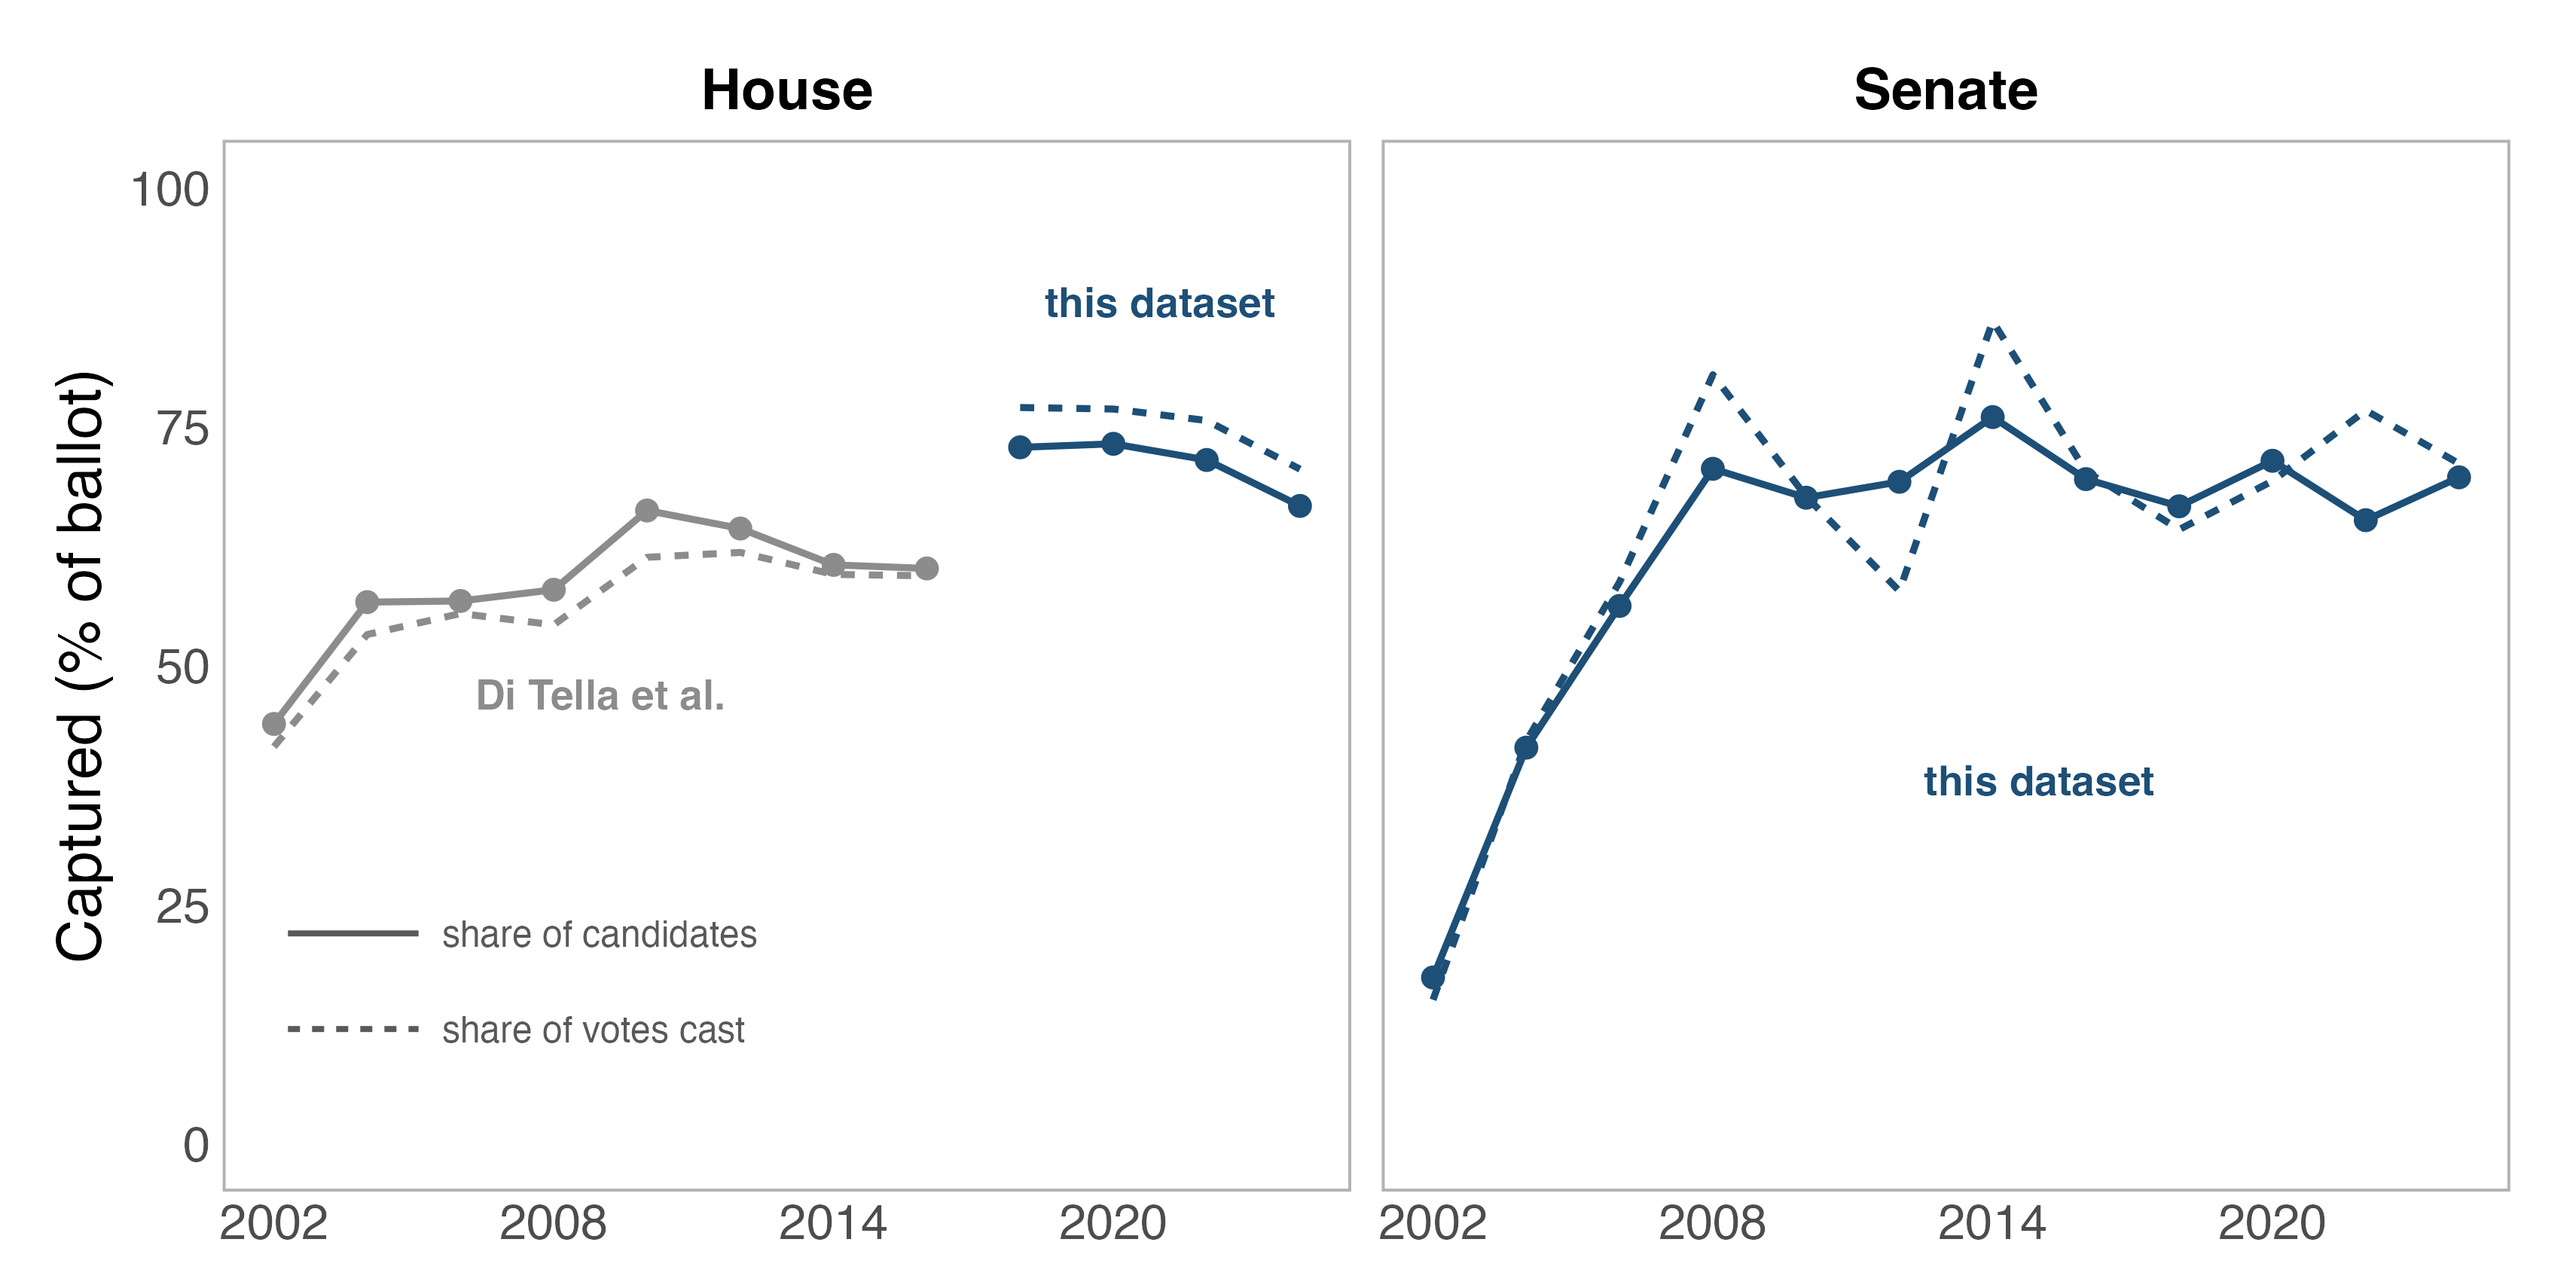
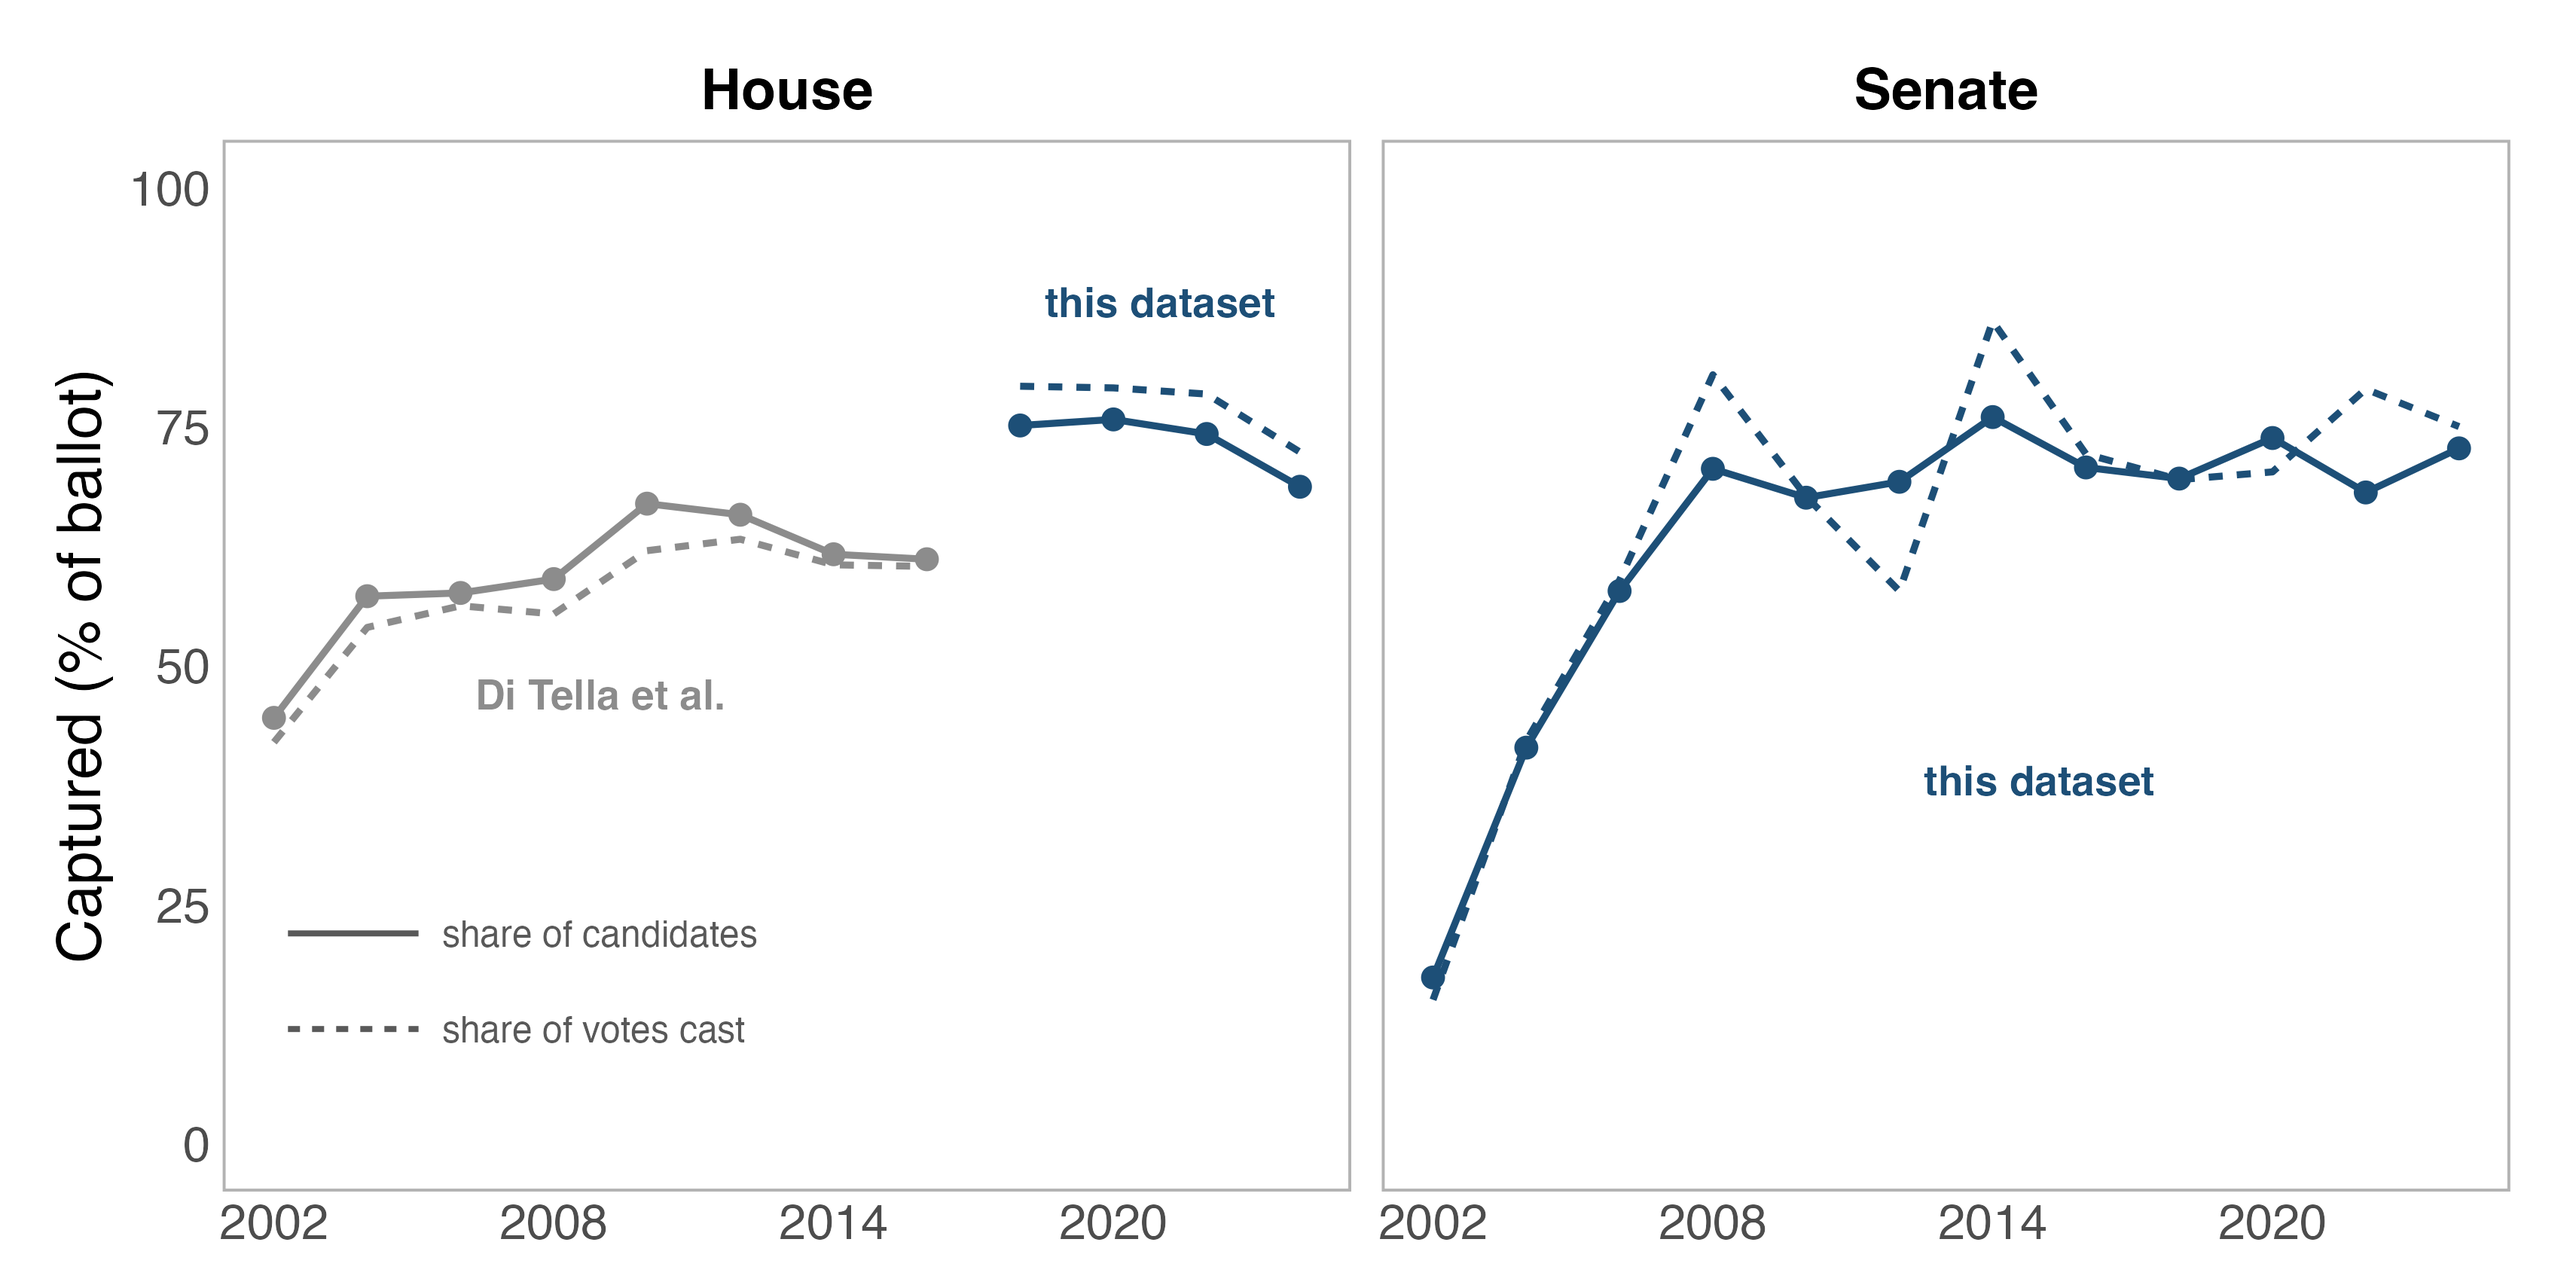
Fix multi-word surnames in the ballot match; publish the diagnostics
A reviewer argued that on_ballot is load-bearing but matched by name with no
reported diagnostics, and that name matching fails systematically on nicknames,
suffixes and married names. Checking that claim found a real defect.

The ballot writes "ALEXANDRIA OCASIO-CORTEZ"; the roster writes "Ocasio-Cortez,
Alexandria". The matcher took only the final token as the surname on the ballot
side, so every multi-word surname failed. 91 candidates were wrongly recorded as
not on the ballot, including Ocasio-Cortez, Wasserman Schultz, McMorris Rodgers
and Diaz-Balart. My earlier spot check missed it because the unmatched rows I
sampled were alphabetically early and genuinely were primary losers.

The match now tries the last one, two and three tokens as the surname and
accepts any that lands. on_ballot goes 2,946 -> 3,037 and every coverage figure
moves up one to two points (House 2018 72.8 -> 75.1%).

Sensitivity is now estimated rather than asserted: scoring all 6,907 unmatched
rows against the names in their own race with rapidfuzz leaves 13 close pairs at
90+ similarity, all married-name variants or reversed FEC name fields. So the
match finds about 99% of ballot candidates.

Other review items:

  - the topic comparison was unfair and is mine. It set our pooled MAXIMUM
    (0.268) against a mean. Now states max and mean (0.097) side by side.
  - "pipeline code available from the author on request" was wrong; the repo is
    public. Replaced with the URL.
[…]

diff --git a/scripts/coverage_vs_returns.py b/scripts/coverage_vs_returns.py
@@ -75,13 +75,42 @@ def name_parts(raw: str, comma_form: bool) -> tuple[str, str]:
     return ("".join(lt), (ft[0] if ft else ""))
 
 
+def last_variants(raw: str) -> list[tuple[str, str]]:
+    """Plausible (last, first) splits for a "First Middle Last" ballot name.
+
+    The ballot writes "DEBBIE WASSERMAN SCHULTZ" and "ALEXANDRIA OCASIO-CORTEZ";
+    the collections write "Wasserman Schultz, Debbie". Taking only the final
+    token as the surname silently drops every multi-word surname, so try the
+    last one, two and three tokens and let the caller accept any of them.
+    """
+    s = re.sub(r'"[^"]*"', " ", str(raw))
+    s = re.sub(r"[^A-Za-z ]", " ", s).lower()
+    toks = [w for w in s.split() if w not in SUFFIX]
+    if not toks:
+        return [("", "")]
+    out = []
+    for k in (1, 2, 3):
+        if len(toks) > k:
+            out.append(("".join(toks[-k:]), toks[0]))
+    if not out:                                   # single-token name
+        out.append(("".join(toks), ""))
+    return out
+
+
 def keys(df: pd.DataFrame, name: str, comma: bool) -> pd.DataFrame:
-    """Add last/first/initial columns used for the ballot match."""
+    """Add last/first/initial columns used for the ballot match.
+
+    Collection rows (comma form) get one surname. Ballot rows also get
+    `lasts`, every plausible surname split, because their name format hides
+    where the surname begins.
+    """
     parts = [name_parts(v, comma) for v in df[name]]
     df = df.copy()
     df["last"] = [p[0] for p in parts]
     df["first"] = [p[1] for p in parts]
     df["fi"] = df["first"].str[:1]
+    if not comma:
+        df["lasts"] = [last_variants(v) for v in df[name]]
     return df
 
 
@@ -146,27 +175,42 @@ def match(b: pd.DataFrame, c: pd.DataFrame) -> pd.Series:
     disagrees. Requiring uniqueness on both sides keeps it from merging two
     different people who happen to share a surname in one district.
     """
-    race = ["year", "office", "state_po", "district", "last"]
-    bk = list(map(tuple, b[race].astype(str).values))
-    ck = list(map(tuple, c[race].astype(str).values))
+    return pd.Series(_hits(b, c), index=b.index)
 
+
+def _compatible(g: str, f: str) -> bool:
+    """Two first names that plausibly belong to the same person."""
+    return (g == f or (bool(g) and bool(f)
+                       and (g.startswith(f) or f.startswith(g)))
+            or (bool(g[:1]) and g[:1] == f[:1]))
+
+
+def _hits(b: pd.DataFrame, c: pd.DataFrame) -> list[bool]:
+    rc = ["year", "office", "state_po", "district"]
     by_race: dict[tuple, list[str]] = {}
-    for k, f in zip(ck, c["first"]):
-        by_race.setdefault(k, []).append(f)
+    for k, last, f in zip(map(tuple, c[rc].astype(str).values), c["last"],
+                          c["first"]):
+        by_race.setdefault(k + (last,), []).append(f)
     b_count: dict[tuple, int] = {}
-    for k in bk:
-        b_count[k] = b_count.get(k, 0) + 1
+    for k, variants in zip(map(tuple, b[rc].astype(str).values), b["lasts"]):
+        for last, _ in variants:
+            b_count[k + (last,)] = b_count.get(k + (last,), 0) + 1
 
-    def ok(k: tuple, f: str) -> bool:
-        firsts = by_race.get(k)
-        if not firsts:
-            return False
-        if len(set(firsts)) == 1 and b_count.get(k, 0) == 1:
-            return True                      # one of each: surname is enough
-        return any(g == f or (g and f and (g.startswith(f) or f.startswith(g)))
-                   or (g[:1] and g[:1] == f[:1]) for g in firsts)
-
-    return pd.Series([ok(k, f) for k, f in zip(bk, b["first"])], index=b.index)
+    out = []
+    for k, variants in zip(map(tuple, b[rc].astype(str).values), b["lasts"]):
+        got = False
+        for last, first in variants:
+            firsts = by_race.get(k + (last,))
+            if not firsts:
+                continue
+            if len(set(firsts)) == 1 and b_count.get(k + (last,), 0) == 1:
+                got = True
+                break
+            if any(_compatible(g, first) for g in firsts):
+                got = True
+                break
+        out.append(got)
+    return out
 
 
 def reverse_match(c: pd.DataFrame, b: pd.DataFrame) -> pd.DataFrame:
@@ -175,13 +219,14 @@ def reverse_match(c: pd.DataFrame, b: pd.DataFrame) -> pd.DataFrame:
     Returns on_ballot and general_votes. Same compatibility rule as match(),
     read the other way.
     """
-    race = ["year", "office", "state_po", "district", "last"]
-    bk = list(map(tuple, b[race].astype(str).values))
-    ck = list(map(tuple, c[race].astype(str).values))
-
+    rc = ["year", "office", "state_po", "district"]
     by_race: dict[tuple, list[tuple[str, int]]] = {}
-    for k, f, v in zip(bk, b["first"], b["candidatevotes"]):
-        by_race.setdefault(k, []).append((f, int(v)))
+    for k, variants, v in zip(map(tuple, b[rc].astype(str).values), b["lasts"],
+                              b["candidatevotes"]):
+        for last, first in variants:
+            by_race.setdefault(k + (last,), []).append((first, int(v)))
+    ck = [tuple(x) + (l,) for x, l
+          in zip(c[rc].astype(str).values, c["last"])]
     c_count: dict[tuple, int] = {}
     for k in ck:
         c_count[k] = c_count.get(k, 0) + 1
@@ -192,12 +237,10 @@ def reverse_match(c: pd.DataFrame, b: pd.DataFrame) -> pd.DataFrame:
         if not cands:
             hit.append(False), votes.append(pd.NA)
             continue
-        if len(cands) == 1 and c_count.get(k, 0) == 1:
+        if len({x[1] for x in cands}) == 1 and c_count.get(k, 0) == 1:
             hit.append(True), votes.append(cands[0][1])
             continue
-        ok = [v for g, v in cands
-              if g == f or (g and f and (g.startswith(f) or f.startswith(g)))
-              or (g[:1] and g[:1] == f[:1])]
+        ok = [v for g, v in cands if _compatible(g, f)]
         hit.append(bool(ok))
         votes.append(max(ok) if ok else pd.NA)
     return pd.DataFrame({"on_ballot": hit, "general_votes": votes},
@@ -293,14 +336,13 @@ def main() -> int:
             print(f"  {x.office:<6} {x.year}  {x.n_matched:>4}/{x.n_ballot:<4} "
                   f"= {x.pct_cand:5.1f}%   votes {x.pct_votes:5.1f}%")
 
-    # How many collection rows never found a ballot row? A high number means the
-    # matcher is failing, not that the candidates were absent from the ballot.
-    for lbl, c, col in (("ICPSR", t, "in_icpsr"), ("ours", o, "in_ours")):
-        key = ["year", "office", "state_po", "district", "last", "fi"]
-        onb = set(map(tuple, b[key].astype(str).values))
-        miss = sum(tuple(v) not in onb for v in c[key].astype(str).values)
-        print(f"\n{lbl}: {miss:,}/{len(c):,} ({100*miss/len(c):.1f}%) rows found "
-              f"no ballot row")
+    # How many collection rows are not on the ballot? Read from the same
+    # matcher, not a stricter key, or the number is an artifact of the key.
+    for lbl, c in (("ICPSR", t), ("ours", o)):
+        rev = reverse_match(c, b)
+        miss = int((~rev.on_ballot).sum())
+        print(f"\n{lbl}: {miss:,}/{len(c):,} ({100*miss/len(c):.1f}%) not on a "
+              f"general-election ballot")
     print(f"\nwrote {OUT/'coverage_vs_ballot.csv'}")
     print("\nannotating the released tables with on_ballot / general_votes:")
     annotate(b)

diff --git a/scripts/icpsr_replicate_coding.py b/scripts/icpsr_replicate_coding.py
@@ -329,6 +329,21 @@ def page_measures(text: str, mattr_window: int,
     return out
 
 
+def election_day(year: int) -> int:
+    """YYYYMMDD of the federal general election: Tuesday after the first Monday.
+
+    Wanted because roughly a fifth of archived pages post-date the vote, and a
+    site can change or lapse once the campaign is over.
+    """
+    import datetime as _dt
+    d = _dt.date(int(year), 11, 1)
+    while d.weekday() != 1:
+        d += _dt.timedelta(days=1)
+    if d.day == 1:
+        d += _dt.timedelta(days=7)
+    return int(d.strftime("%Y%m%d"))
+
+
 def icpsr_aggregate(pages: pd.DataFrame, value_cols: list[str],
                     group_col: str = "ck",
                     date_col: str = "date") -> pd.DataFrame:
@@ -549,6 +564,8 @@ def run_apply(corpus: Path, out: Path, mattr_window: int,
         # are untouched in the corpus itself; this only affects this output.)
         if has_home:
             g["is_home"] = (g.page_type == "homepage")
+        g["is_preelec"] = (g["date"].astype(str).str.slice(0, 8).astype(int)
+                           <= election_day(g["year"].iloc[0]))
         g = g.drop(columns=[c for c in ("text_snap_content", "n_char", "n_words",
                                         "n_tags", "n_clean_tags", "page_type")
                             if c in g.columns])
@@ -615,6 +632,33 @@ def run_apply(corpus: Path, out: Path, mattr_window: int,
                   .join(hp.groupby("ck").size().rename("icpsr_n_valid_pages_home")))
         print(f"homepage-only variant: {len(agg_h):,} candidate-years covered "
               f"({100*len(agg_h)/len(res):.1f}%)")
+    pe = pages[pages.is_preelec]
+    if len(pe):
+        agg_p = icpsr_aggregate(pe, vals, date_col="snap_day").rename(
+            columns={"n_char": "icpsr_n_char", "n_words": "icpsr_n_words",
+                     "n_tags": "icpsr_n_tags",
+                     "n_clean_tags": "icpsr_n_clean_tags",
+                     "ttr": "icpsr_ttr_approx", "mattr": "icpsr_mattr_approx",
+                     "entropy": "icpsr_entropy_approx"}).add_suffix("_preelec")
+        res = (res.join(agg_p)
+                  .join(pe.groupby("ck").snap_day.nunique()
+                          .rename("icpsr_n_valid_snap_preelec"))
+                  .join(pe.groupby("ck").size()
+                          .rename("icpsr_n_valid_pages_preelec")))
+        print(f"pre-election variant: {len(agg_p):,} candidate-years covered "
+              f"({100*len(agg_p)/len(res):.1f}%); "
+              f"{100*(1-pages.is_preelec.mean()):.1f}% of pages post-date the vote")
+
+    # Snapshot timing. Without these the panel gives no way to tell WHEN in the
+    # cycle a candidate is observed, which is the dimension the original paper
+    # is about.
+    day = pages.groupby("ck").snap_day
+    res = (res.join(day.min().rename("icpsr_first_snap_day"))
+              .join(day.max().rename("icpsr_last_snap_day")))
+    span = (pd.to_datetime(res.icpsr_last_snap_day, format="%Y%m%d")
+            - pd.to_datetime(res.icpsr_first_snap_day, format="%Y%m%d")).dt.days
+    res["icpsr_snap_span_days"] = span
+
     if topics is not None:
         res = res.join(topics)
         bad = int((res[topics.columns].sum(axis=1).sub(1).abs() > 1e-9).sum())

diff --git a/docs/deliverable_codebook.md b/docs/deliverable_codebook.md
@@ -233,8 +233,14 @@ all retained snapshots — the un-collapsed corpus for re-scoring.
   `panel_icpsr_compat.csv`): did this candidate appear on the general election
   ballot, and with how many votes. Matched to the MIT Election Data and Science
   Lab returns (House doi:10.7910/DVN/IG0UN2, Senate doi:10.7910/DVN/PEJ5QU) on
-  state, district and year, then on surname with a compatible first name.
-  Only 2,946 of 9,944 captured candidate-years are on the ballot; the rest filed
+  state, district and year, then on surname with a compatible first name. The
+  returns write "DEBBIE WASSERMAN SCHULTZ" where the roster writes "Wasserman
+  Schultz, Debbie", so the last one, two and three name tokens are each tried as
+  the surname; without that, every multi-word surname was missed (91 candidates,
+  including Ocasio-Cortez and McMorris Rodgers). Scoring every unmatched row
+  against the names in its own race leaves 13 close pairs the rule still misses,
+  mostly married and maiden name variants, so sensitivity is about 99%.
+  Only 3,037 of 9,944 captured candidate-years are on the ballot; the rest filed
   with the FEC and lost or left a primary. Capture rates differ sharply between
   the two groups (84% against 52%), so restrict on this column before treating
   the corpus as a sample of general election candidates. `general_votes` is

diff --git a/docs/RELEASE_README.md b/docs/RELEASE_README.md
@@ -109,7 +109,7 @@ boilerplate and the cleaning removes them.
 ## Known limitations
 
 1. **Selection.** 41% of attempted candidate-years have no text. Use the roster.
-   And note what the corpus is a sample *of*: only 2,946 of the 9,944 captured
+   And note what the corpus is a sample *of*: only 3,037 of the 9,944 captured
    candidate-years reached a general election ballot. The rest filed with the FEC
    and lost or left a primary. Capture rates differ between the two (84% against
    52%), so restrict on `on_ballot` before treating this as a sample of general
